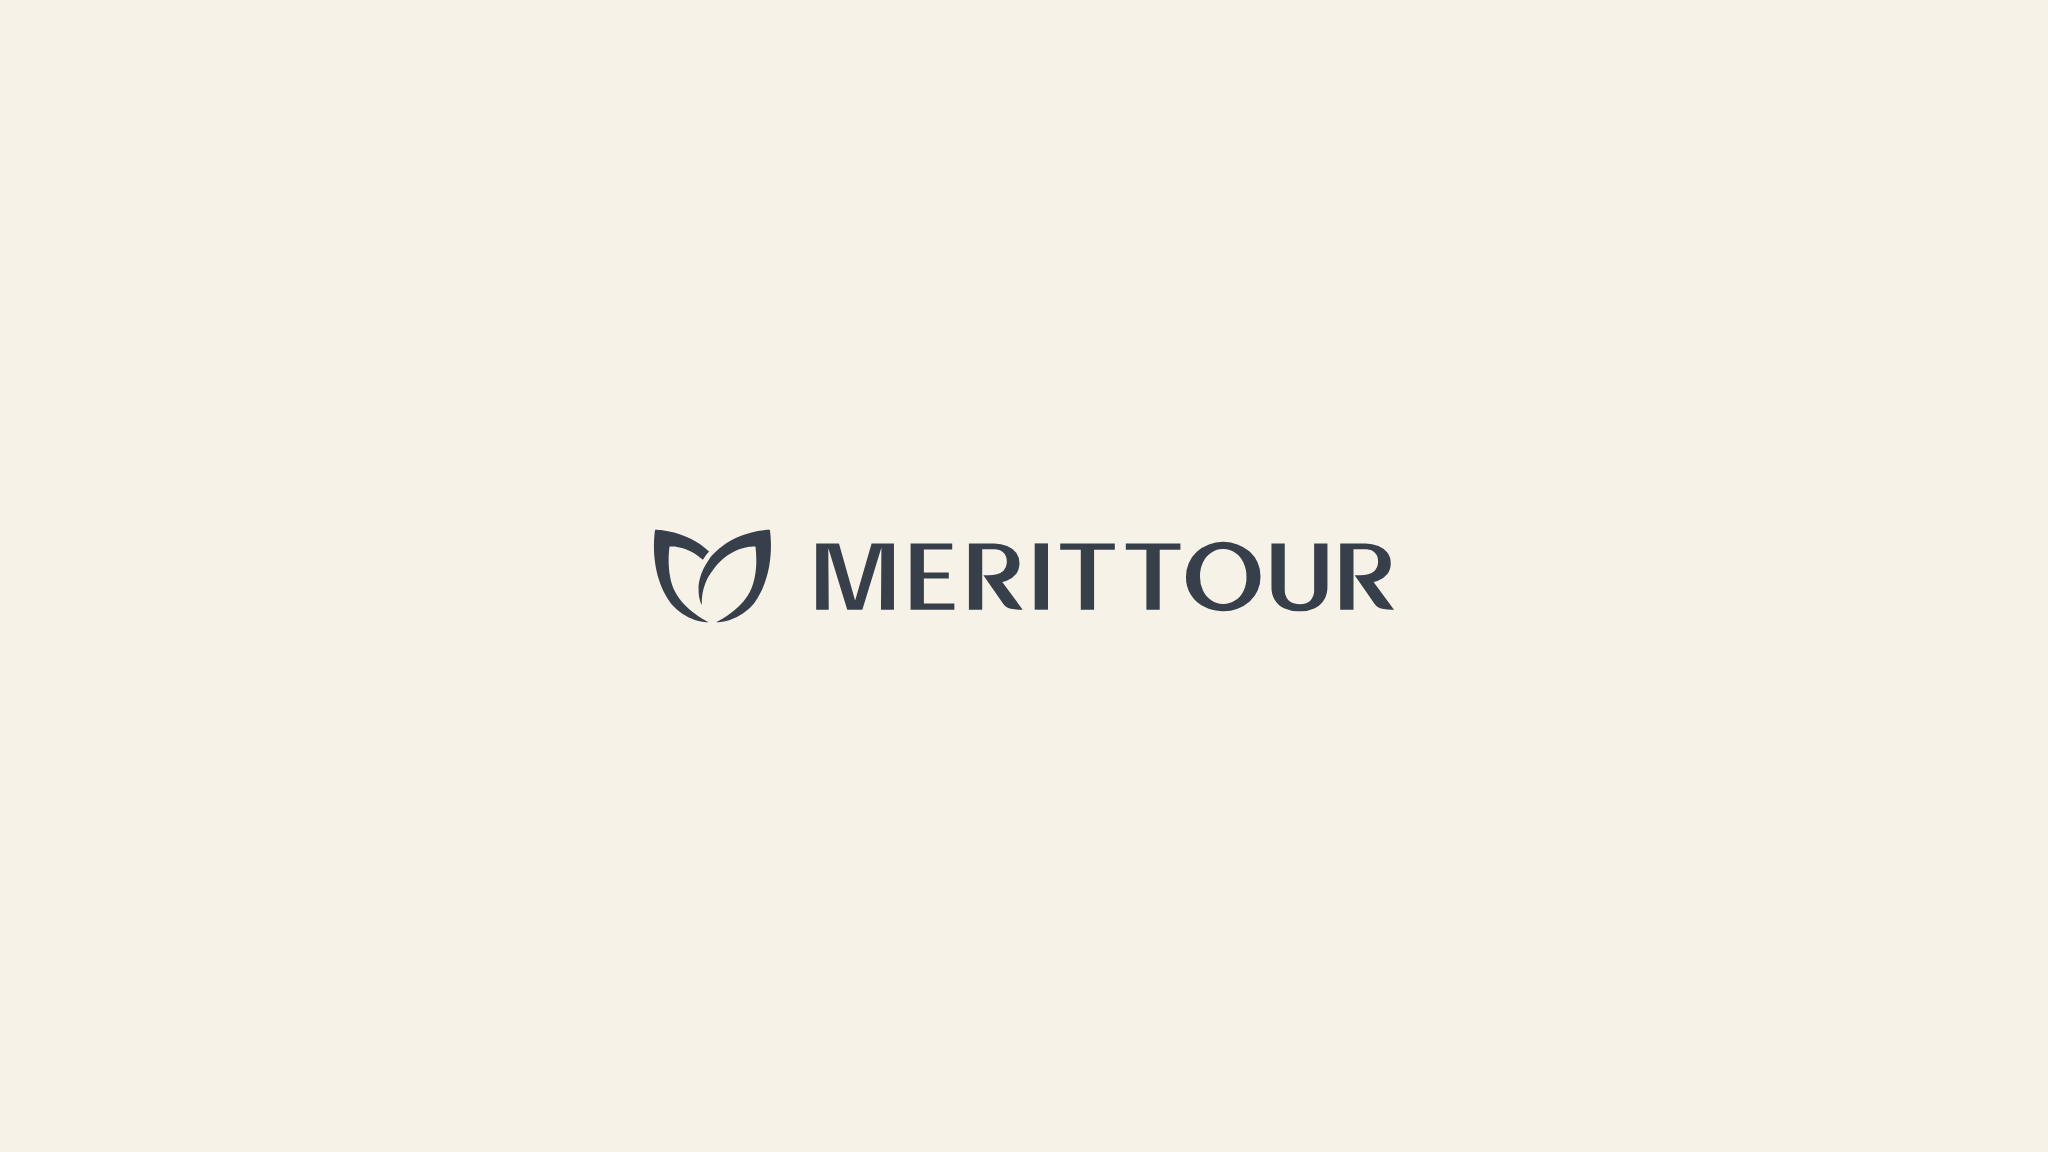
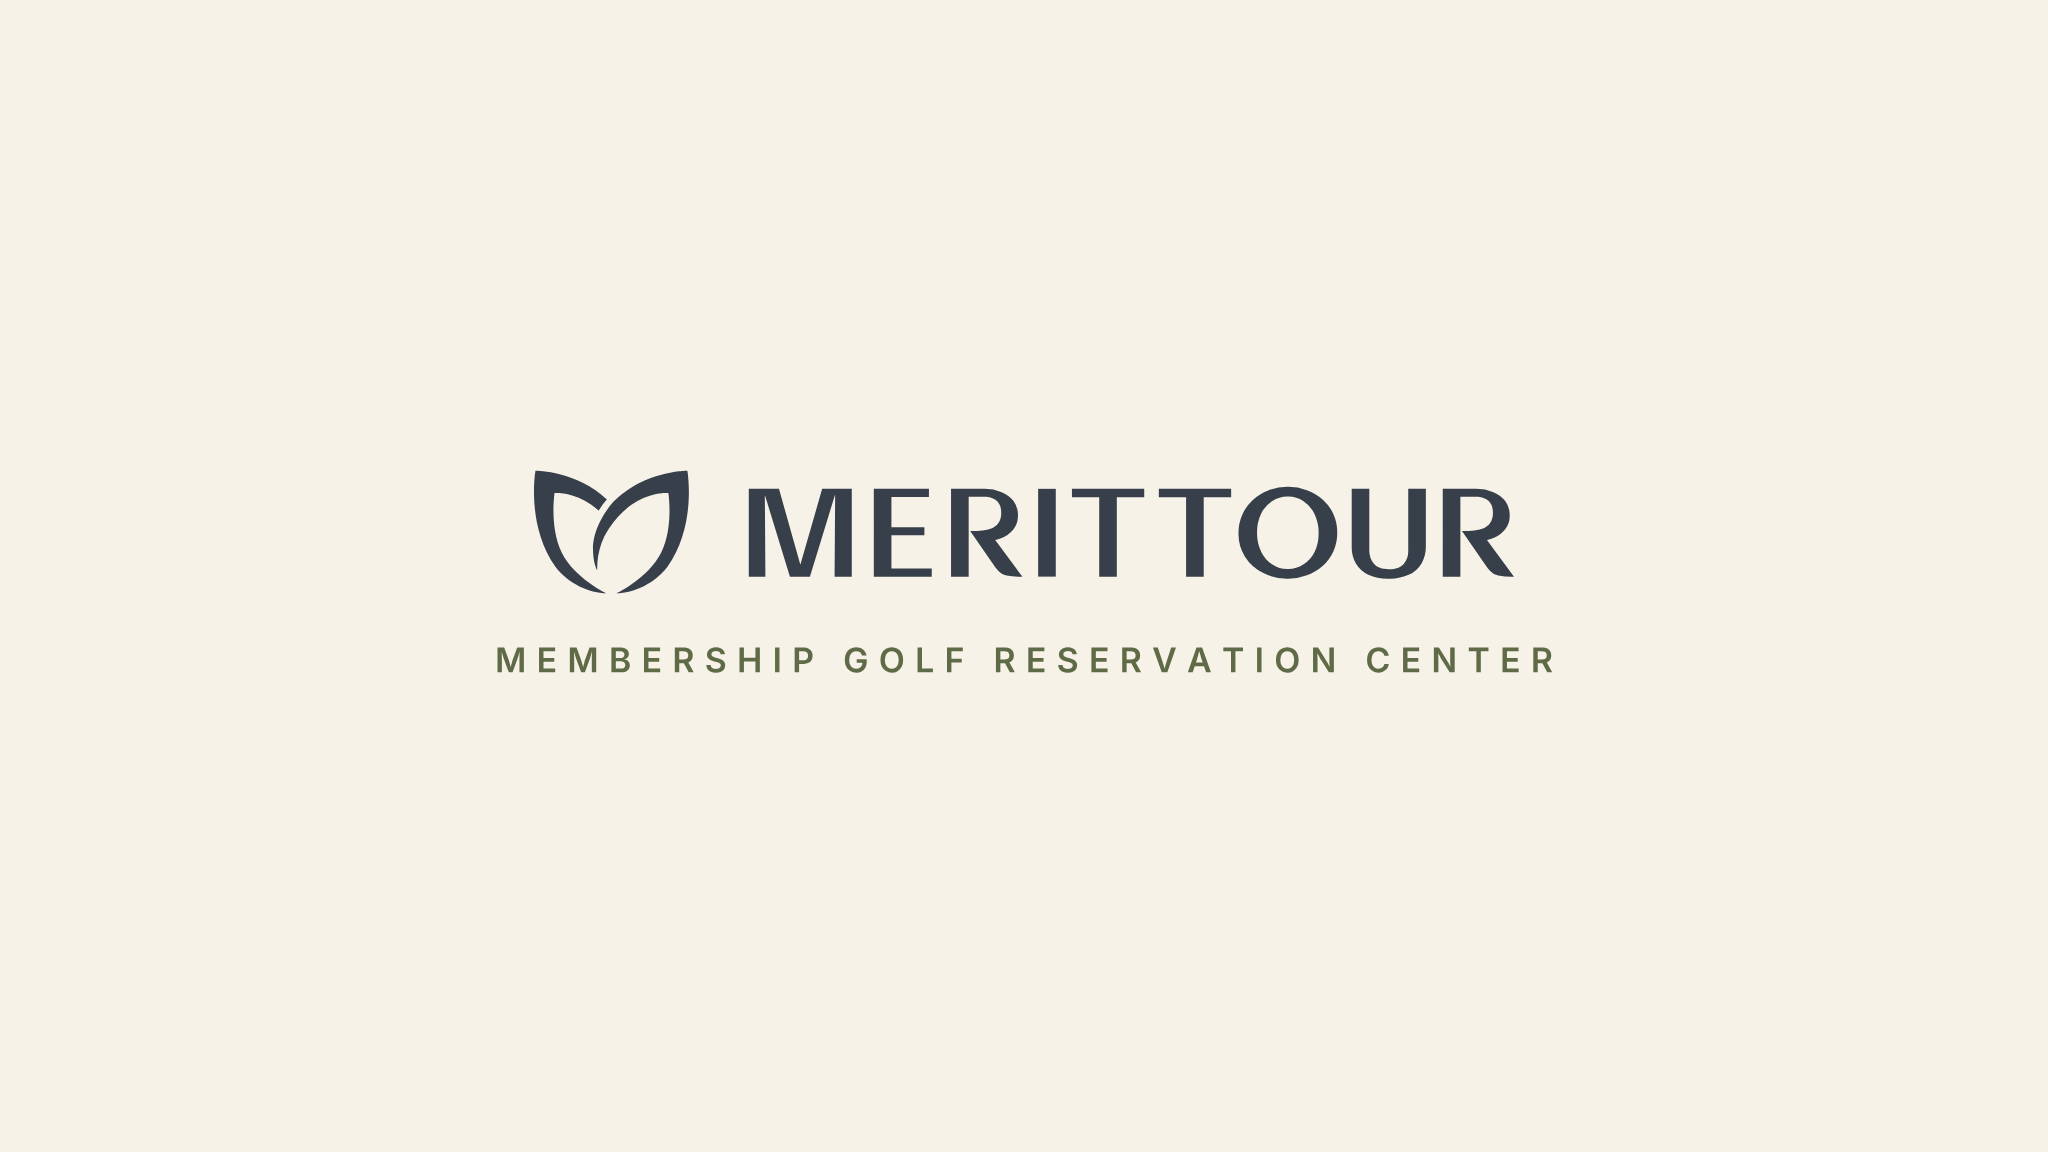
배너에 MEMBERSHIP GOLF RESERVATION CENTER 를 넣는다 (#146)
로고만 있던 배너 아래에 영문 문구를 붙였다. 로고도 740 → 980 으로 키웠다.
데스크톱은 2048 × 423 만 보여 주는데 740 짜리 로고 하나면 좌우가 비어
로고가 떠 있는 것처럼 보였다.

  로고 980 × 122 · 문구 34px(자간 0.30em) 폭 1058 · 블록 1058 × 210
  안전 영역 1235 × 338 안에 들어간다

GOLF 를 뺀 판(-nogolf)도 함께 넣었다. 어느 쪽을 쓸지 정해지면 나머지를 지운다.

문구는 글자가 아니라 도형(path)이다. 폰트로 두면 그 폰트가 없는 PC 에서 다른
글씨체로 나와 SVG 와 PNG 가 어긋난다 — 이 저장소의 SVG 는 편집용이라 PNG 와
같아야 한다. Inter SemiBold 를 opentype 으로 읽어 자간까지 계산해 넣었으므로
이제 SVG 에 font-family 가 한 곳도 없다.

바탕색은 베이지나 네이비를 권한다. 채널 화면을 라이트·다크로 흉내 내 보니
흰 바탕은 라이트에서 페이지 배경과 같은 색이라 배너가 있는지도 모르게 되고,
다크에서는 흰 덩어리로 튄다. 베이지는 라이트에서 배너로 읽히고 다크에서도
흰색만큼 튀지 않는다. 네이비는 양쪽에서 안정적이다.

검증 — SVG 를 다시 그려 PNG 와 픽셀 비교, 다른 픽셀 0.000%.
SVG 6개 모두 font-family·<text> 0건. 2048×1152 · 40KB(제한 6MB).

Claude-Session: https://claude.ai/code/session_01CsrANVbS6dHXTrrsVQfJ1f

Changed region(s): [[0.25, 0.4062, 0.75, 0.5312], [0.2188, 0.5625, 0.7812, 0.5938]]

diff --git a/assets/README.md b/assets/README.md
@@ -11,9 +11,8 @@
 | `logo-merittour-square-stacked.svg` · `-800.png` | **정사각 · 세로 조합** — 심볼 위, 워드마크 아래 |
 | `logo-merittour-square-horizontal.svg` · `-800.png` | **정사각 · 가로형** — 가로형을 그대로 정사각에 넣은 것 |
 
-| `banner-youtube-white.svg` · `-white.png` | **유튜브 배너** 2048×1152 · 흰 바탕 |
-| `banner-youtube-beige.svg` · `-beige.png` | 유튜브 배너 · 베이지 바탕(`#F6F2E8`) |
-| `banner-youtube-navy.svg` · `-navy.png` | 유튜브 배너 · 네이비 바탕에 흰 로고 |
+| `banner-youtube-{white,beige,navy}.png` · `.svg` | **유튜브 배너** 2048×1152 · 로고 + MEMBERSHIP GOLF RESERVATION CENTER |
+| `banner-youtube-{white,beige,navy}-nogolf.png` · `.svg` | 같은 것, 문구에서 GOLF 를 뺀 판 |
 
 브랜드 색 = `#373f4a`
 
@@ -31,7 +30,16 @@
 그래서 **로고·글자는 가운데 1235 × 338 안에** 넣는다. 여기 있는 배너는 로고를
 740 × 92 로 가운데 놓아 네 크기에서 다 보인다. 밖에 두면 모바일에서 잘린다.
 
-용량 제한 6MB — 지금 파일은 23KB.
+용량 제한 6MB — 지금 파일은 40KB.
+
+**바탕색은 베이지나 네이비를 쓴다.** 흰 바탕은 라이트 테마에서 페이지 배경과
+같은 색이라 배너가 있는지도 모르게 되고, 다크 테마에서는 흰 덩어리로 튄다.
+베이지는 라이트에서 배너로 읽히고 다크에서도 흰색만큼 튀지 않는다.
+네이비는 양쪽에서 다 안정적이다. 실제로 채널 화면을 흉내 내 놓고 비교한 결과다.
+
+**배너 문구는 도형(path)이다.** 폰트로 두면 그 폰트가 없는 PC 에서 다른 글씨체로
+나와 SVG 와 PNG 가 어긋난다. 문구를 고칠 때는 폰트를 넣고 다시 도형으로 만들어야
+한다(Inter SemiBold · 34px · 자간 0.30em).
 
 ## 정사각 자리에 로고 전체를 넣어야 할 때
 
